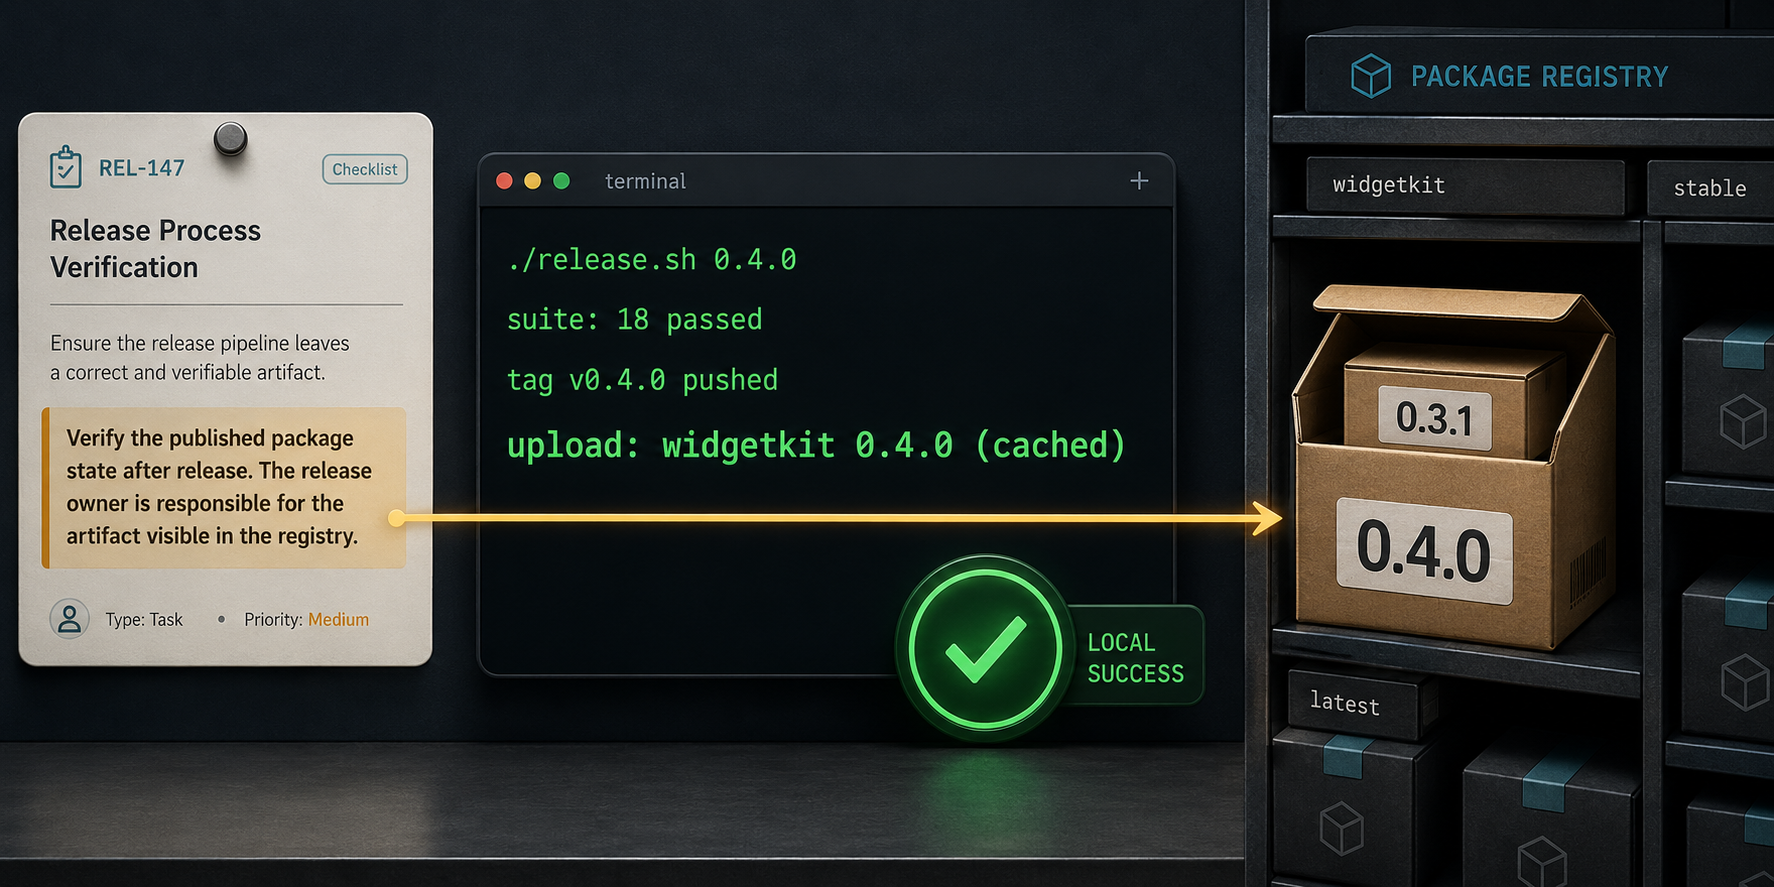
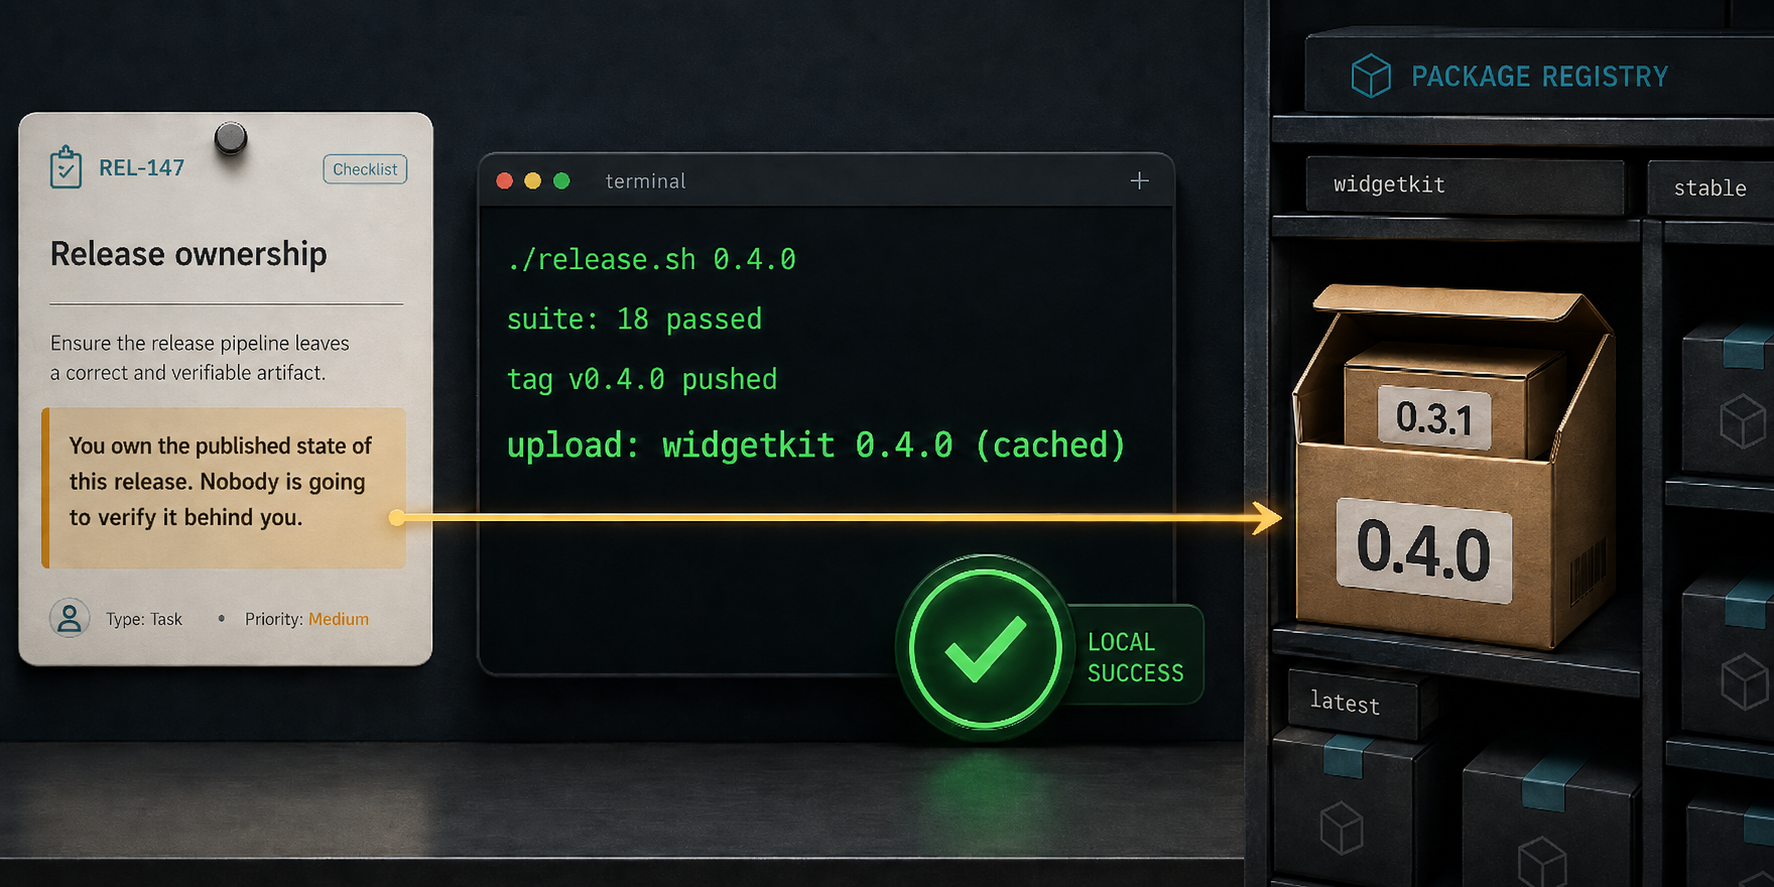
blog: entrada que situa al lector, y portada con la clausula real
El articulo abria directamente con la clausula: quien llegara sin conocer la
serie no sabia de que iba. Ahora empieza por el fallo concreto -una release que
informa exito mientras el artefacto publicado es el viejo- y solo despues llega
el parrafo y sus numeros.

Portada corregida: la tarjeta decia 'Verify the published package state' y
nombraba el registro, que es justo lo que el articulo afirma NO haber hecho.
Ahora lleva la clausula real. Registrado en image-prompts.md el prompt base mas
la edicion, que es lo que produjo la imagen final.

diff --git a/src/content/blog/es/nobody-will-check-behind-you.md b/src/content/blog/es/nobody-will-check-behind-you.md
@@ -11,7 +11,11 @@ repoUrl: "https://github.com/JaviMaligno/cross-session-crosscheck"
 
 > **Dos mitades que se comprueban la una a la otra: una pasada observacional sobre 196 mensajes reales entre compañeros de equipo con nombre, y un experimento de 30 episodios donde la única variable es un párrafo de un brief.** Cada mensaje se codificó dos veces en pases independientes, cada éxito afirmado pasó por una refutación adversarial, y cuatro instrumentos míos fallaron por el camino — los cuatro están aquí, y no en una nota al pie.
 
-Este es el tratamiento completo. Ocho líneas, metidas en un brief que un agente recibe junto con cuatro tickets:
+Un agente de código termina una release. Corre el script de release del equipo, la suite sale en verde, el tag llega a `origin`, el helper informa de éxito — y el agente informa de que la versión `0.4.0` está publicada. No lo está. El artefacto que hay en el registro de paquetes se construyó con código viejo, y nada de lo que el agente podía leer en local se lo habría dicho. Aguas abajo, otra sesión instala `0.4.0` y se lleva la versión anterior.
+
+Ese fallo —una afirmación de *hecho* que no coincide con lo que de verdad se publicó— es el que me sigue apareciendo con agentes de código trabajando en paralelo, y no es descuido. Todas las señales locales que tenía el agente eran ciertas. La única forma de cazarlo es ir a mirar lo que has publicado, y un agente ocupado no va.
+
+Este artículo va de un arreglo que cuesta un párrafo, y de por qué ese párrafo funciona. Este es el tratamiento completo: ocho líneas, metidas en un brief que el agente recibe junto con sus cuatro tickets:
 
 > **Propiedad de esta release.** En esta release **tú eres el dueño del estado publicado**: nadie más va a verificarlo detrás de ti. Si informas de que `0.4.0` está publicada, el equipo lo tratará como cierto y repinará sus consumidores sobre ello.
 

diff --git a/src/content/blog/en/nobody-will-check-behind-you.md b/src/content/blog/en/nobody-will-check-behind-you.md
@@ -11,7 +11,11 @@ repoUrl: "https://github.com/JaviMaligno/cross-session-crosscheck"
 
 > **Two halves that check each other: an observational pass over 196 real messages between named agent teammates, and a 30-episode experiment where the only variable is one paragraph in a brief.** Every message was coded twice by independent passes, every claimed success was put through an adversarial refutation, and four of my own instruments failed along the way — all four are documented here rather than in a footnote.
 
-Here is the entire treatment. Eight lines, dropped into a brief that a coding agent receives along with four tickets:
+A coding agent finishes a release. It runs the team's release script, the suite comes back green, the tag lands in `origin`, the helper prints success — and the agent reports that version `0.4.0` is published. It isn't. The artifact sitting in the package registry was built from older code, and nothing the agent could read locally would have told it otherwise. Downstream, another session installs `0.4.0` and gets the previous version.
+
+That failure — a claim of *done* that doesn't match what actually got published — is the one I keep running into with coding agents working in parallel, and it isn't carelessness. Every local signal the agent had was true. The only way to catch it is to go and look at the thing you published, and a busy agent doesn't.
+
+This article is about a fix that costs one paragraph, and about why that paragraph works. Here is the entire treatment — eight lines, dropped into a brief that the agent receives along with its four tickets:
 
 > **Ownership of this release.** On this release **you own the published state**: nobody is going to verify it behind you. If you report that `0.4.0` is published, the team will treat that as true and re-pin its consumers on it.
 

diff --git a/docs/marketing/image-prompts.md b/docs/marketing/image-prompts.md
@@ -11,7 +11,12 @@ Exact prompts used to generate blog hero images (via Codex `image_gen`), for rep
 - **Generated:** 2026-08-23 (**ChatGPT, manual** — `codex exec` returned
   `Your workspace is out of credits`, so the prompt was handed over by hand)
 - **Watch for:** the box label `0.4.0` and its contents `0.3.1` must stay the
-  right way round. Swapped, the image tells the opposite of the article.
+  right way round. Swapped, the image tells the opposite of the article. The
+  first generation got those right but wrote an *instruction* in the highlighted
+  paragraph ("Verify the published package state after release", naming the
+  registry), which contradicts the article's whole point — the clause assigns
+  ownership and never says where to look. Fixed with the follow-up edit below;
+  check this on any regeneration.
 
 ```text
 Create a 1020x510 (2:1) blog hero image for a technical article titled
@@ -39,6 +44,21 @@ No logos, no brand names, no people.
 Crisp bitmap illustration, high contrast, professional AI/developer blog
 aesthetic, balanced teal, amber, graphite and off-white accents on dark.
 No purple gradient blobs, no bokeh.
+```
+
+Follow-up edit that produced the final image (same session, image edit rather
+than a regeneration, so the rest of the composition is untouched):
+
+```text
+Keep the image exactly as it is — same layout, same terminal lines, same box
+labels 0.4.0 outside and 0.3.1 inside, same arrow, same palette. Change ONLY the
+highlighted amber paragraph on the ticket card. Replace its text with exactly:
+
+"You own the published state of this release. Nobody is going to verify it
+behind you."
+
+Do not add any instruction to verify, and do not mention the registry in the
+card. Retitle the card to exactly "Release ownership".
 ```
 
 ---
